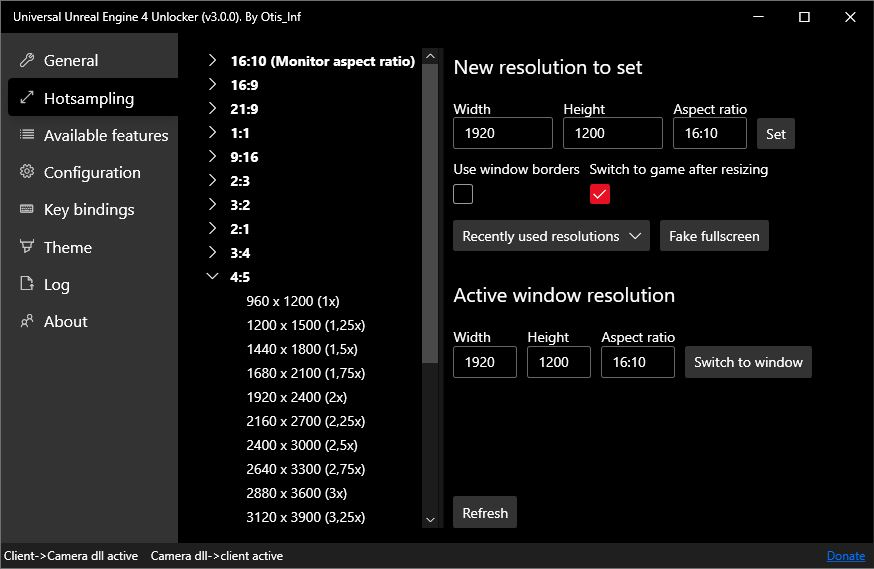
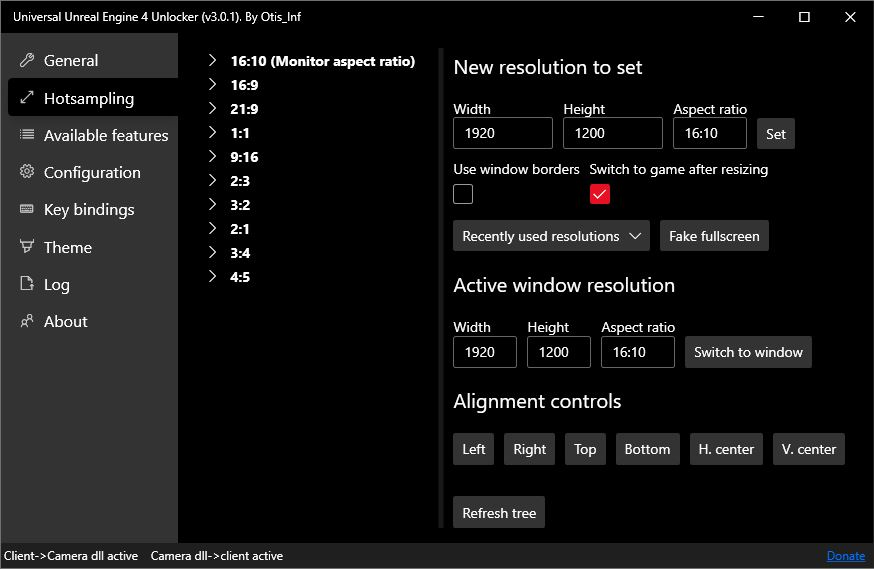
UUU release 3.0.1

Changed region(s): [[0.4634, 0.0896, 0.9886, 0.9262], [0.278, 0.5079, 0.4325, 0.9262], [0.587, 0.8664, 0.6487, 0.9262]]

diff --git a/markdown/GeneralGuides/universal_ue4_consoleunlocker.md b/markdown/GeneralGuides/universal_ue4_consoleunlocker.md
@@ -16,7 +16,7 @@ For Unreal Engine 4 powered games, there's a universal way to add a free camera,
 
 To download the UUU please use the link below. It's usable with all [the supported games in the list](universal_ue4_consoleunlocker.htm#games-that-work-with-the-unlocker). 
 
-* [Universal UE4 Unlocker v3.0.0](https://mega.nz/#!MBw1wAiB!E6B_O5xamAi-XanX6cgf9m2zQo42jvTygtG8sgGCOnc). See for the changelog [below](universal_ue4_consoleunlocker.htm#changelog).
+* [Universal UE4 Unlocker v3.0.1](https://mega.nz/#!JBxmAK7R!K6mKHMMtn1sRc34I866wdnUJIJS-y4J8QfKWu_JjyAk). See for the changelog [below](universal_ue4_consoleunlocker.htm#changelog).
 
 ## Starting the UUU
 After downloading the zip linked below, unpack it in an empty folder. 
@@ -132,6 +132,8 @@ Windowed). If you run your game as full screen, hotsampling might just stretch t
 
 After you've select the resolution and aspect ratio you want to use, click the **Set** button to activate it. By default the UUU will switch focus back to the game window so you can immediately take the shot. To get back to your native play resolution, you can either select it from the tree or click the **Fake fullscreen** window. 
 
+If you want to check portions of the window that's outside your monitor, you can use the *Alignment controls* buttons, which allow you to move the window around so you can check whether all parts of the window you're about to take a shot of are properly rendered. 
+
 ## Dumping object addresses
 The UUU has another feature up its sleeve: it can dump the memory locations and names of all currently active engine objects a text file in the game folder, called `UUU_Objects.txt`. To do that, on the *Available features* tab, click the **Dump object info** button. The memory addresses listed in the file differ per level and every time you run the game, so if you want to look up objects in-memory after you've loaded a new level, you have to 
 dump the file again. The Objects file is useful for people who create cheat tables. 
@@ -183,7 +185,7 @@ Deliver us the moon |
 Desolate | 
 Devil's Hunt | 
 Donensbourgh | 
-DRAGON BALL Z: KAKAROT | HUD toggle doesn't hide the entire HUD.
+DRAGON BALL Z: KAKAROT | HUD toggle doesn't hide some parts of the HUD.
 Dragon Quest XI: Echoes of an Elusive Age | 
 Draugen | 
 Dreamscaper | 
@@ -209,7 +211,7 @@ Hunting Simulator |
 Infliction | 
 Insomnia the Ark | 
 Intruders: Hide and Seek" | 
-Journey to the Savage Planet | Console isn't available.
+Journey to the Savage Planet | 
 Jumanji The Video Game | 
 Jump Force (limited) | 
 Killsquad | 
@@ -358,6 +360,10 @@ Special thanks to Pino44io for testing.
 &copy;2019-2020 All rights reserved.
 
 ## Changelog
+
+###v3.0.1:
+- **ADDED**: Added alignment buttons for the window to the Hotsampling tab, so you can examine the window contents if it's larger than your monitor
+- **FIXED**: Some games matched their Objectsstore AOB with the wrong location so an alternative, better one was added.
 
 ###v3.0.0: 
 - **ADDED**: Added new user interface which offers hotsampling and doesn't rely on DirectX hooking for menu display.
